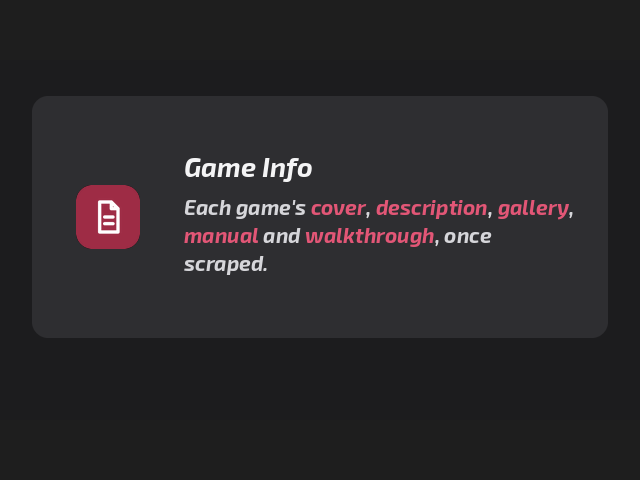
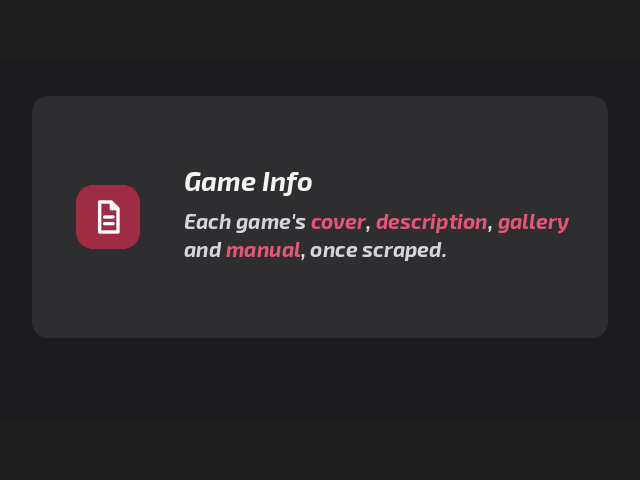
New UI: clearer texts in the Clock, Battery Monitor, Button Lab, scraper and install tips
- Clock: "The time shown stays still while you edit it. Saving sets it,
  with the seconds at 00." ("The time counts on while the console is on"
  did not say what it meant: the values are read once and saved as set.)
- Battery Monitor: "If you save now, use 'Set counter to 100%' when it is
  full."; "Set Battery Capacity (top row) and save it with A" (it had
  "first" twice).
- Button Lab: "Press all 15 to pass"; the volume keys "May be used by the
  system".
- Scraper: "ScreenScraper" as the site writes it in the new texts; the
  cover tip said games with a cover are skipped, but with Game Info on
  (the default) what a game still misses is downloaded: "what a game
  already has is not downloaded again".
- Install tips: Game Info lists what the scraper can fetch (cover,
  description, gallery, manual; a walkthrough is a file you add), and SD
  Card Doctor, installed by default now, is in Apps.

Claude-Session: https://claude.ai/code/session_01WmBtPRhxkLQsUhwJBnDVjo

Changed region(s): [[0.2812, 0.3125, 0.9062, 0.5625]]

diff --git a/src/batteryMonitorUI/batteryMonitorUI.c b/src/batteryMonitorUI/batteryMonitorUI.c
@@ -2208,7 +2208,7 @@ static void renderAxpMenu(void)
         renderText("The PMIC starts its counter from the battery voltage,", font_small ? font_small : font_Arkhip, col_val, &(SDL_Rect){ib_x + 16, ib_y + 12, ib_w - 32, 20});
         renderText("which reads too high while charging.", font_small ? font_small : font_Arkhip, col_val, &(SDL_Rect){ib_x + 16, ib_y + 36, ib_w - 32, 20});
         renderText("Best: let it finish charging, then save.", font_small ? font_small : font_Arkhip, col_green, &(SDL_Rect){ib_x + 16, ib_y + 60, ib_w - 32, 20});
-        renderText("Saving now? Use 'Set counter to 100%' once it is full.", font_small ? font_small : font_Arkhip, col_sub, &(SDL_Rect){ib_x + 16, ib_y + 84, ib_w - 32, 20});
+        renderText("If you save now, use 'Set counter to 100%' when it is full.", font_small ? font_small : font_Arkhip, col_sub, &(SDL_Rect){ib_x + 16, ib_y + 84, ib_w - 32, 20});
 
         int btn_w = 210, btn_h = 38, btn_y = my + 190;
         int b1_x = mx + 35, b2_x = mx + mw - 35 - btn_w;
@@ -2804,7 +2804,7 @@ int main(int argc, char *argv[])
                         }
                         else if (res == -3) {
                             snprintf(axp_feedback_msg, sizeof(axp_feedback_msg),
-                                     "Set Battery Capacity (first row) and press A first");
+                                     "Set Battery Capacity (top row) and save it with A");
                         }
                         else {
                             snprintf(axp_feedback_msg, sizeof(axp_feedback_msg),

diff --git a/src/buttonlab/buttonlab.c b/src/buttonlab/buttonlab.c
@@ -256,7 +256,7 @@ static void draw(Canvas *c, Uint32 now) {
                  buttons[last_button].down ? CUI_RGB(255, 143, 143) : CUI_GREY,CUI_CENTER);
     }
     cui_text(cc,105,350,"Green = detected",13,BL_SEEN,CUI_CENTER);
-    cui_text(cc,105,374,raw_input ? "All 15 to pass" : "SDL input mode",13,
+    cui_text(cc,105,374,raw_input ? "Press all 15 to pass" : "SDL input mode",13,
              raw_input ? CUI_GREY : CUI_WARN,CUI_CENTER);
 
     side_panel(c,448,"VOLUME KEYS");
@@ -264,7 +264,7 @@ static void draw(Canvas *c, Uint32 now) {
     text_key(c,467,206,136,34,VOL_UP,"VOL +",17);
     text_key(c,467,256,136,34,VOL_DOWN,"VOL -",17);
     cui_text(cc,535,350,"Optional",13,CUI_GREY,CUI_CENTER);
-    cui_text(cc,535,374,"The system may take them",12,CUI_DIM,CUI_CENTER);
+    cui_text(cc,535,374,"May be used by the system",12,CUI_DIM,CUI_CENTER);
 
     device_body(c,n);
 

diff --git a/src/clock/main.c b/src/clock/main.c
@@ -135,8 +135,8 @@ static void draw(CuiCanvas *c, int battery)
         triangle(c, cx, top + 102, false, CUI_WHITE, sel ? 0.9f : 0.45f);
         x += w + gap;
     }
-    cui_text(c, CUI_W / 2, 318, "Seconds are set to 00 when you save.", 17, CUI_GREY, CUI_CENTER);
-    cui_text(c, CUI_W / 2, 344, "The time counts on while the console is on.", 17, CUI_GREY, CUI_CENTER);
+    cui_text(c, CUI_W / 2, 318, "The time shown stays still while you edit it.", 17, CUI_GREY, CUI_CENTER);
+    cui_text(c, CUI_W / 2, 344, "Saving sets it, with the seconds at 00.", 17, CUI_GREY, CUI_CENTER);
 
     cui_rect(c, 0, 420, CUI_W, 60, CUI_HEAD);
     int hx = 16;
